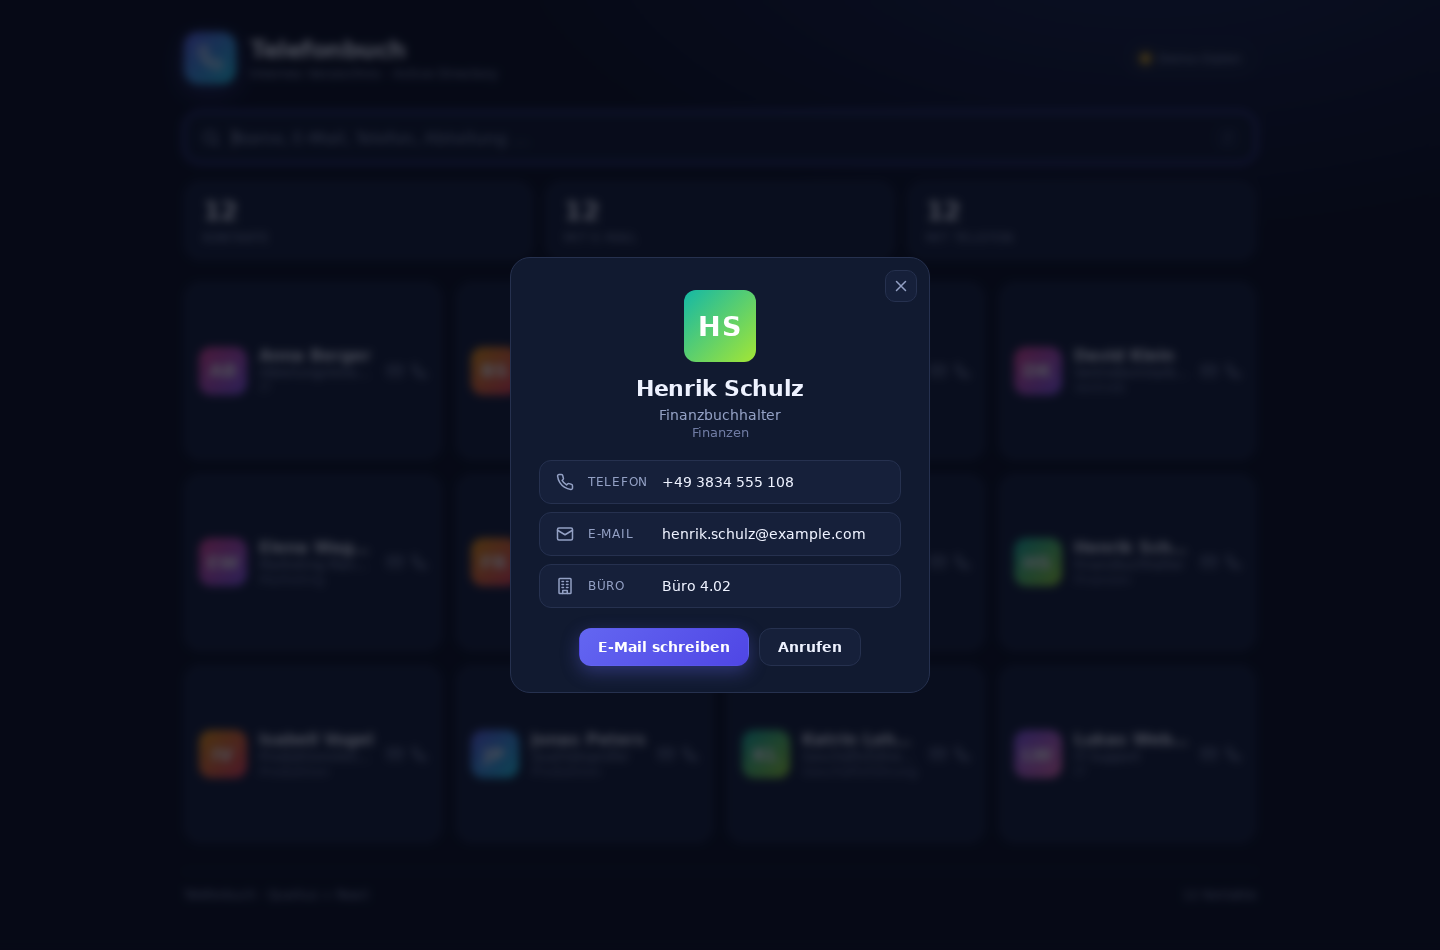
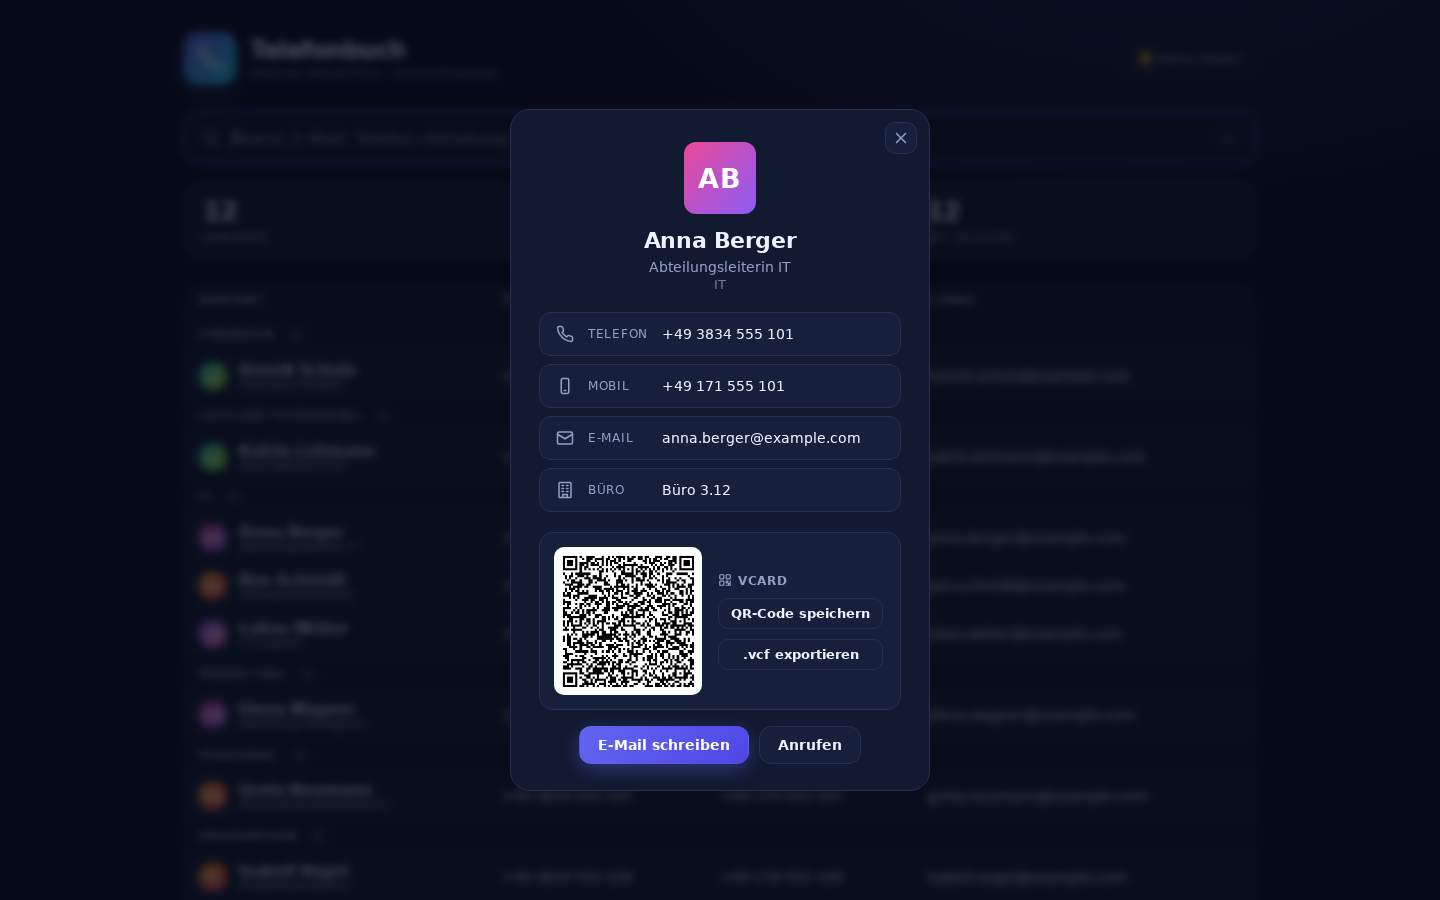
fix: mobile table layout + fresh screenshots

diff --git a/frontend/src/index.css b/frontend/src/index.css
@@ -147,6 +147,7 @@ html, body {
 
 .table {
   width: 100%;
+  min-width: 620px;
   border-collapse: collapse;
   font-size: 0.88rem;
 }
@@ -207,7 +208,7 @@ html, body {
 .cell-name { font-weight: 600; font-size: 0.92rem; white-space: nowrap; overflow: hidden; text-overflow: ellipsis; }
 .cell-title { color: var(--muted); font-size: 0.76rem; white-space: nowrap; overflow: hidden; text-overflow: ellipsis; }
 
-.cell-link { color: var(--text); text-decoration: none; font-size: 0.85rem; word-break: break-all; }
+.cell-link { color: var(--text); text-decoration: none; font-size: 0.85rem; white-space: nowrap; }
 .cell-link:hover { color: var(--accent-2); text-decoration: underline; }
 
 .skeleton-row td { padding: 12px 14px; }
@@ -375,12 +376,16 @@ a.row-link:hover { border-color: var(--accent); }
 }
 
 @media (max-width: 640px) {
+  .cell-mail, .cell-mobile { display: none; }
+  .table { min-width: 0; }
   .app { padding: 20px 14px 36px; }
   .stats { grid-template-columns: repeat(3, 1fr); gap: 8px; }
   .stat { padding: 10px 12px; }
   .stat-value { font-size: 1.25rem; }
   .table-wrap { font-size: 0.82rem; }
   .cell-contact { min-width: 0; }
+  .table td { padding: 8px 10px; }
+  .cell-link { font-size: 0.78rem; }
 }
 
 .drawer-qr {
